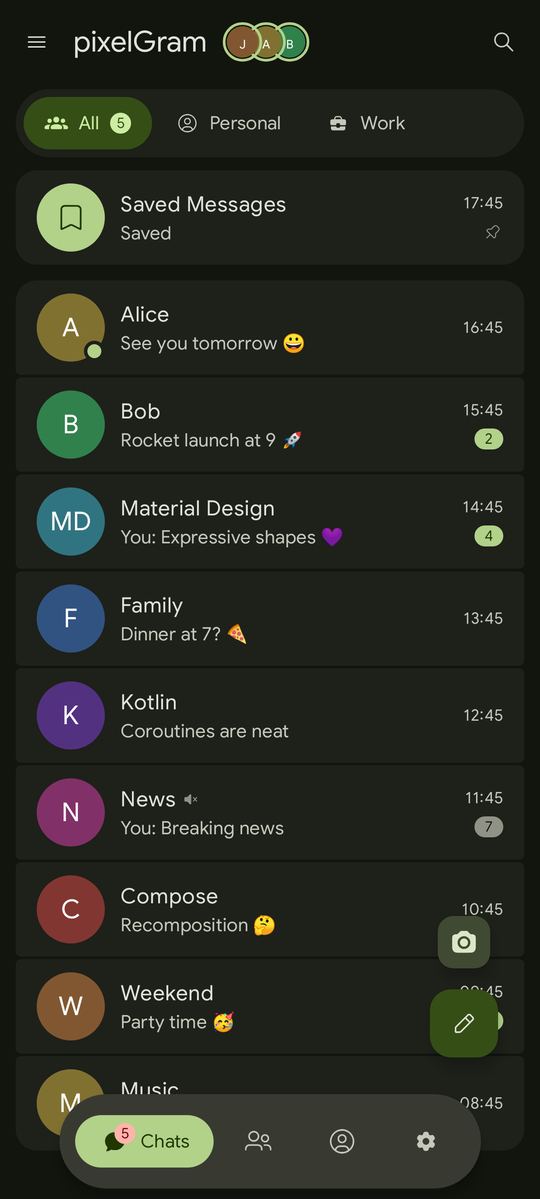
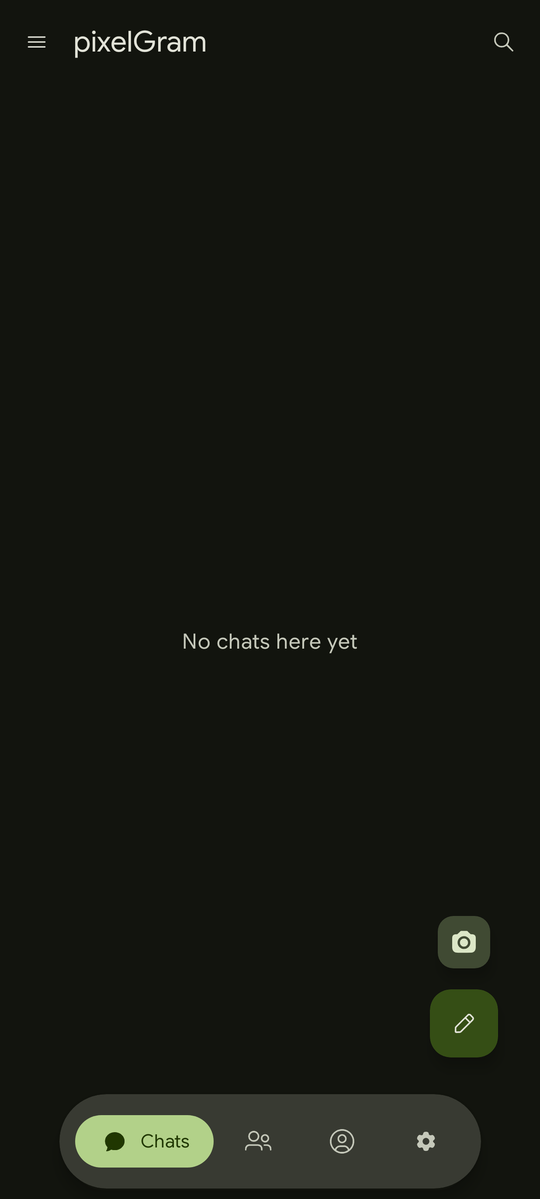
Revert folder capsule, Orion Store badge in README
Claude-Session: https://claude.ai/code/session_01KkHM4eq2qme3G4LtvhfbVH

diff --git a/app/src/main/java/com/pixelgram/android/ui/components/FolderChips.kt b/app/src/main/java/com/pixelgram/android/ui/components/FolderChips.kt
@@ -87,8 +87,6 @@ import androidx.compose.material3.ToggleButtonDefaults
 import androidx.compose.material3.ToggleButtonShapes
 import androidx.compose.foundation.layout.PaddingValues
 import androidx.compose.foundation.shape.RoundedCornerShape
-import androidx.compose.ui.draw.clip
-import androidx.compose.foundation.background
 import androidx.compose.material3.Text
 import androidx.compose.animation.animateColorAsState
 import androidx.compose.animation.animateContentSize
@@ -140,12 +138,9 @@ fun FolderChips(
         horizontalArrangement = Arrangement.spacedBy(ChipGap),
         verticalAlignment = Alignment.CenterVertically,
         modifier = modifier
-            .padding(horizontal = 12.dp, vertical = 4.dp)
             .fillMaxWidth()
-            .clip(RoundedCornerShape(50))
-            .background(MaterialTheme.colorScheme.surfaceContainer)
             .horizontalScroll(scroll)
-            .padding(BarInset),
+            .padding(horizontal = 12.dp, vertical = 6.dp),
     ) {
         tabs.forEachIndexed { index, tab ->
             FolderPill(
@@ -168,11 +163,11 @@ fun FolderChips(
 private fun FolderPill(tab: FolderTab, selected: Boolean, mode: FolderTitle, onClick: () -> Unit, modifier: Modifier, amount: (() -> Float)? = null) {
     val colors = MaterialTheme.colorScheme
     val fade = tween<Color>(SwitchMs, easing = FastOutSlowInEasing)
-    val animatedContainer by animateColorAsState(if (selected) colors.primaryContainer else colors.surfaceContainer, fade, label = "pill-container")
+    val animatedContainer by animateColorAsState(if (selected) colors.primaryContainer else colors.surfaceContainerHigh, fade, label = "pill-container")
     val animatedContent by animateColorAsState(if (selected) colors.onPrimaryContainer else colors.onSurfaceVariant, fade, label = "pill-content")
     val fraction = amount?.invoke()
     val animatedCorner by androidx.compose.animation.core.animateDpAsState(if (selected) PillHeight / 2 else ChipCorner, tween(SwitchMs, easing = FastOutSlowInEasing), label = "pill-corner")
-    val container = if (fraction != null) androidx.compose.ui.graphics.lerp(colors.surfaceContainer, colors.primaryContainer, fraction) else animatedContainer
+    val container = if (fraction != null) androidx.compose.ui.graphics.lerp(colors.surfaceContainerHigh, colors.primaryContainer, fraction) else animatedContainer
     val content = if (fraction != null) androidx.compose.ui.graphics.lerp(colors.onSurfaceVariant, colors.onPrimaryContainer, fraction) else animatedContent
     val dip = remember { Animatable(1f) }
     var first by remember { mutableStateOf(true) }
@@ -241,9 +236,8 @@ private fun FolderPill(tab: FolderTab, selected: Boolean, mode: FolderTitle, onC
     }
 }
 
-private val PillHeight = 40.dp
-private val ChipGap = 2.dp
-private val BarInset = 6.dp
+private val PillHeight = 36.dp
+private val ChipGap = 6.dp
 private const val SwitchMs = 220
 private const val DipAlpha = 0.45f
 

diff --git a/README.ru.md b/README.ru.md
@@ -4,6 +4,8 @@
 
 <p align="center"><a href="README.md">English</a></p>
 
+<p align="center"><a href="https://rookieenough.github.io/Orion-Data/app/?id=pixelgram"><img src="https://raw.githubusercontent.com/RookieEnough/Orion-Store/refs/heads/main/assets/orion-badge.png" alt="Get it on Orion Store" height="56"></a></p>
+
 Клиент Telegram для Android, написанный с нуля на Kotlin и Jetpack Compose в стиле Material 3 Expressive, на основе [TDLib](https://github.com/tdlib/td).
 
 Компаньон [pixelGram Desktop](https://github.com/JettaXP/pixelGram).

diff --git a/README.md b/README.md
@@ -4,6 +4,8 @@
 
 <p align="center"><a href="README.ru.md">Русский</a></p>
 
+<p align="center"><a href="https://rookieenough.github.io/Orion-Data/app/?id=pixelgram"><img src="https://raw.githubusercontent.com/RookieEnough/Orion-Store/refs/heads/main/assets/orion-badge.png" alt="Get it on Orion Store" height="56"></a></p>
+
 A Telegram client for Android written from scratch in Kotlin and Jetpack Compose with Material 3 Expressive, built on [TDLib](https://github.com/tdlib/td).
 
 Companion of [pixelGram Desktop](https://github.com/JettaXP/pixelGram).
